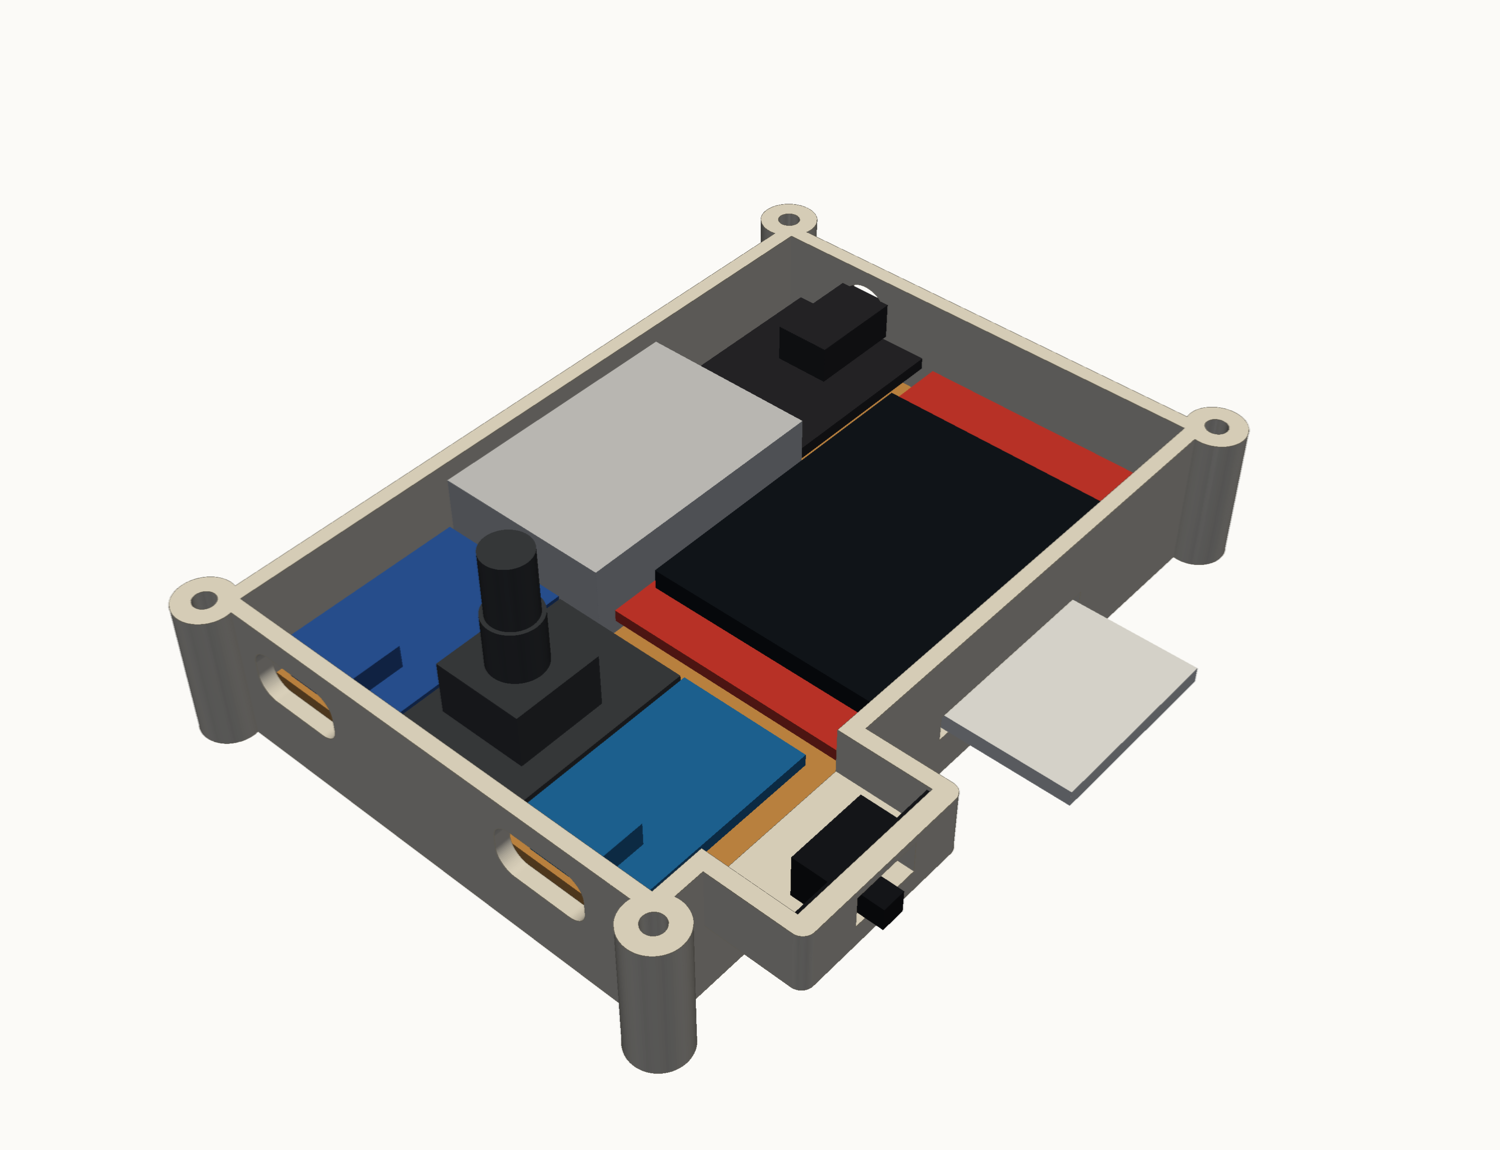
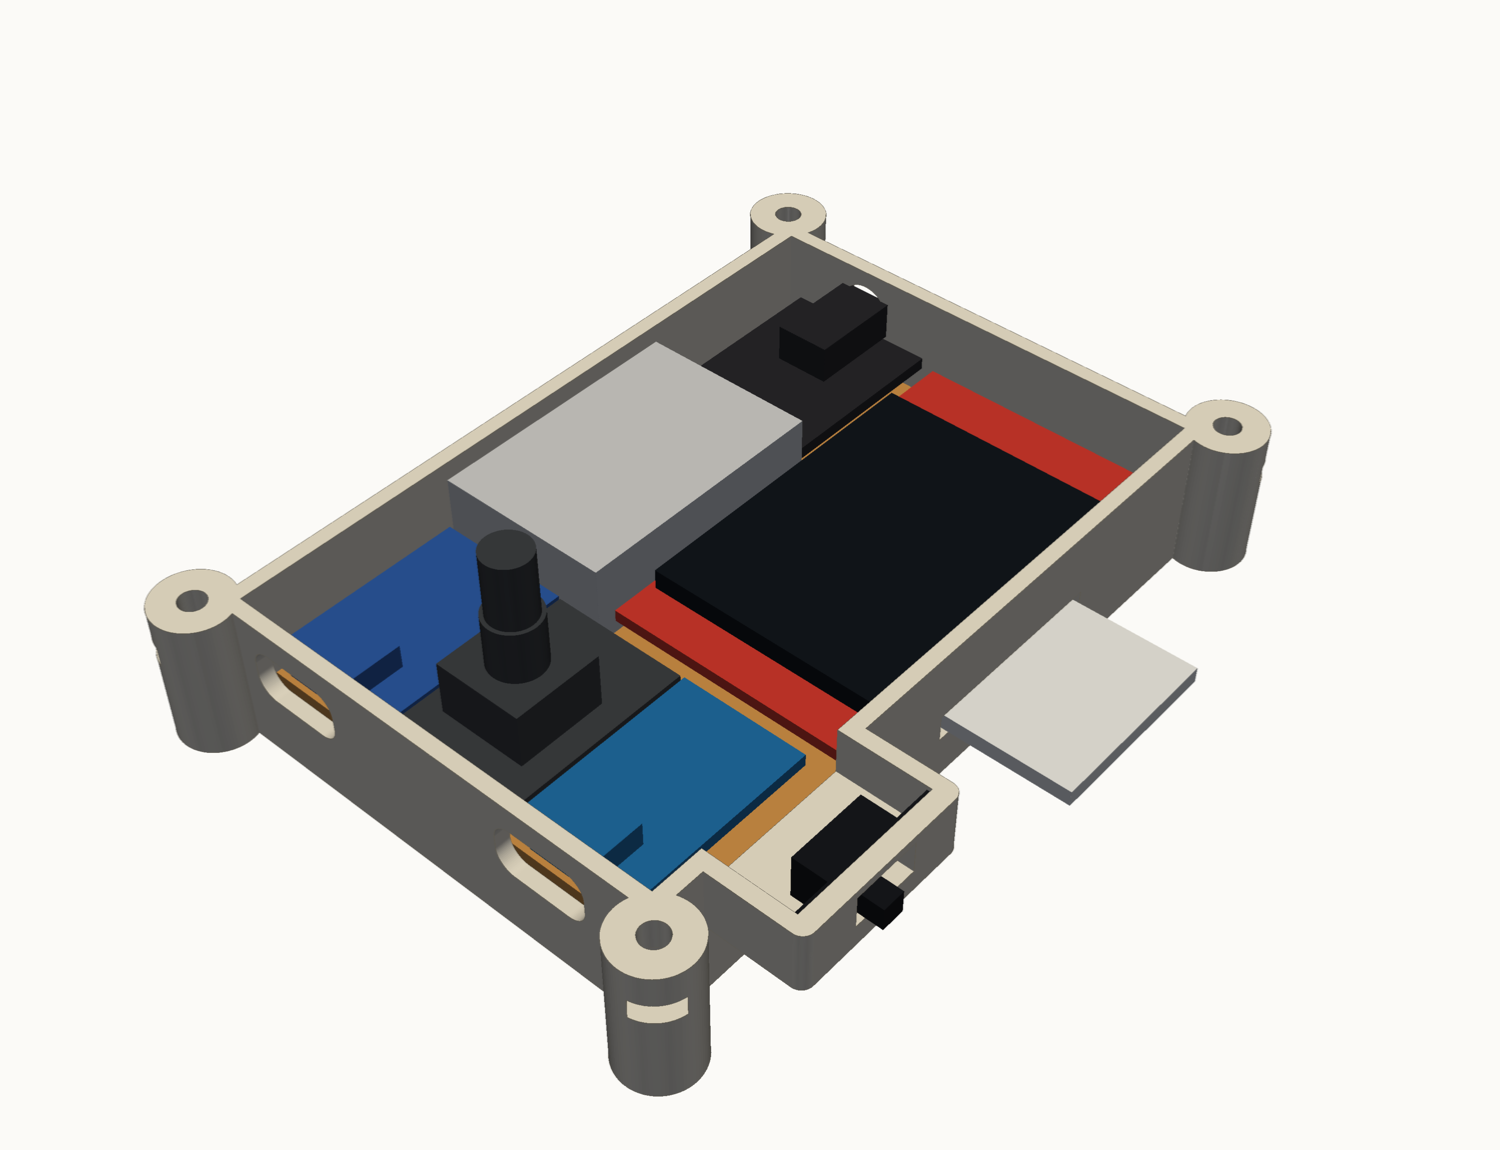
Case concept: captive M3 nut slots in the corner lugs

diff --git a/hardware/case/paata_case.py b/hardware/case/paata_case.py
@@ -33,8 +33,10 @@ HEAD = 0.8            # clearance above the battery
 X0, X1 = -GAP, BOARD_W + GAP
 Y0, Y1 = -GAP, BOARD_L + GAP
 ZTOP = STACK_H + HEAD                 # top of the base walls, underside of the lid
-LUG_R = 3.7                           # corner lugs for the M3 lid screws
-LUG_OFF = 2.7
+LUG_R = 5.0                           # corner lugs: M3 screw from the top into a captive hex nut
+LUG_OFF = 3.6
+NUT_AF, NUT_T = 5.5, 2.4              # M3 nut: across flats, thickness
+NUT_DROP = 4.0                        # plastic between the lid and the nut slot
 
 # positions, EST unless noted (y is measured down from the jack end in the photos)
 yd = lambda y: BOARD_L - y
@@ -96,8 +98,13 @@ def base():
     for x in (USB_ESP_X, USB_CHG_X):                                      # USB-C openings, sized for the plug shell
         b -= Pos(x, Y0 - WALL / 2, USB_Z) * Rot(90, 0, 0) * extrude(RectangleRounded(12.5, 6.8, 2.5), WALL + 2, both=True)
     b -= B(X1 - 1, xo + 1, SD_Y0 - 1, SD_Y1 + 1, SD_Z - 1.8, SD_Z + 1.8)  # SD card slot
+    cx, cy = (X0 + X1) / 2, (Y0 + Y1) / 2
     for x, y in lugs():
-        b -= Pos(x, y, ZTOP - 5) * Cylinder(1.4, 12)                      # M3 screws cut their own thread
+        b -= Pos(x, y, ZTOP - 6) * Cylinder(1.7, 12.2)                    # M3 clearance hole, 12 deep
+        ang = {(True, True): 45, (False, True): 135, (False, False): 225, (True, False): 315}[(x > cx, y > cy)]
+        L = 3.3 + LUG_R + 1                                               # slot runs from the screw axis out through the lug
+        b -= (Pos(x, y, ZTOP - NUT_DROP - (NUT_T + 0.3) / 2) * Rot(0, 0, ang) * Pos(L / 2 - 3.3, 0, 0)
+              * Box(L, NUT_AF + 0.2, NUT_T + 0.3))                        # the nut slides in from outside and cannot turn
     return b
 
 
@@ -177,6 +184,7 @@ def render():
     shot("concept-2-exploded.png", [(210, -150, 150), (32, 45, 40), (0, 0, 1)], lift=70, size=(1500, 1500))
     shot("concept-3-open.png", [(150, -90, 175), mid, (0, 0, 1)], show_lid=False)
     shot("concept-4-switch-side.png", [(215, -40, 70), (55, 35, 8), (0, 0, 1)], zoom=1.25)
+    shot("concept-7-nut-slot.png", [(-75, -60, 42), (-2, 2, 9), (0, 0, 1)], zoom=2.6)
     shot("concept-5-usb-end.png", [(32, -190, 60), mid, (0, 0, 1)])
     shot("concept-6-front.png", [(32, 45, 300), mid, (0, 1, 0)], size=(1150, 1500))
     tmp.unlink()

diff --git a/.claude/CLAUDE.md b/.claude/CLAUDE.md
@@ -126,7 +126,9 @@ Board is built and wired (2026-11-15). Owner's caliper readings of the finished 
   (build123d model + pyvista renders; run with
   `uv run --python 3.12 --with build123d --with pyvista hardware/case/paata_case.py`)
   writes `concept-*.png` and git-ignored STLs. Base tray + flat lid held by four M3
-  screws in outside corner lugs (owner asked for M3); screen seen through a tapered well
+  screws in outside corner lugs (owner asked for M3). Owner's idea (2026-11-15): each lug
+  has a side slot holding a captive M3 hex nut, the screw comes down from the lid into
+  it. Lugs are 10 mm across for that; slot 5.7 × 2.7, 4 mm below the lid; M3 × 10 screws; screen seen through a tapered well
   in the lid; knob through the lid; jack hole in the top wall, two USB-C openings in the
   bottom wall, SD slot in the right wall; switch in a pod on the right wall beside the
   charger. Owner's rules for the pod (2026-11-15): its sizes are the inside of the pocket
@@ -134,7 +136,7 @@ Board is built and wired (2026-11-15). Owner's caliper readings of the finished 
   the lid forms its top, so the switch drops in from above. Outside: 12.5 out, 24.4 long,
   8.2 tall plus the lid, 45° underside so it prints without support. Slider out sideways,
   ears screwed to the pod's outer wall. About
-  81 × 104 × 20.5 mm over lugs and pod. Port, window and knob positions are estimates
+  83 × 108 × 20.5 mm over lugs and pod. Port, window and knob positions are estimates
   from photos; no board supports yet. Not printable until those are measured.
 
 ## Library / NAS conventions
